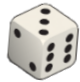
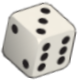
Die improvement and instruction cards
Added in all 40 instruction cards (6 strings per card). Also fixed the
die frame/animation up more.

diff --git a/Client/This.java b/Client/This.java
@@ -3,6 +3,329 @@ final class This
         /*
          * Constants
          */
+        public static final String[][] INSTRUCTION_CARDS =
+        {
+                {
+                        "Traffic jam on 405 by Airport. All cars on 405 lose one turn. If you are not on 405, move one.",
+                        "Caught using cell phone. Get ticket and wait one.",
+                        "Shopping spree on RODEO Drive. Go To B. Hills.",
+                        "Freeway wide open today. Move forward two.",
+                        "Your birthday. Take friend to Hollywood Bowl.",
+                        "New DIamond Lane opens. Zip forward three."
+                },
+                {
+                        "Go directly to Hollywood to see movie stars.",
+                        "Police stops you and gives you good driving award. Move forward three.",
+                        "JOKER. You MAY trade places with another car.",
+                        "You have won free Dodger tickets. Go to any of the three stadium entrances.",
+                        "Go forward to next offramp, then left two.",
+                        "Rush hour. Cars on 5 lose a turn. Others go one."
+                },
+                {
+                        "Free tickets to Six Flags. Go to Santa Clarita.",
+                        "Go directly to see Snoopy at Knotts Berry Farm.",
+                        "Accident ahead. Go right one at next offramp.",
+                        "Invited to lunch with Mayor. Go directly to L.A.",
+                        "Blowout. Go slowly to next offramp for repairs.",
+                        "Go to Airport at N. Long Beach. Helicopter takes you and car to Burbank. Then move two."
+                },
+                {
+                        "Go to L.A. Airport to drop off Grandma, then go two.",
+                        "Daughter enrolls. Take her to UCLA. Then go one.",
+                        "Take the day off. Go directly to any beach.",
+                        "Oops. Out of Gas. Nice man pushes you forward one to station.",
+                        "Go forward to next offramp, then right one.",
+                        "Take friend and use diamond lane. Zip ahead two."
+                },
+                {
+                        "School bus has flat tire. Stop to help, wait one then move forward one on next turn, plus the draw.",
+                        "Exchange with car closest to El Monte.",
+                        "Jump forward four. Even if you pass destination.",
+                        "Beautiful day in sunny So. Cal. Go forward two.",
+                        "President in town. Freeway closed. Wait one.",
+                        "Soaring gas prices--light traffic. Go forward two."
+                },
+                {
+                        "Dad riding in back seat. Move forward one.",
+                        "Today is your day. Move forward two.",
+                        "Turn signal malfunction. Wait one for repairs.",
+                        "Rainy today. Wipers are smearing, causing bad vision. Wait one while wipers are replaced.",
+                        "Car falls off hauling trailer. Move around one.",
+                        "Snow storm. Wait one to put on chains."
+                },
+                {
+                        "Tunnel flooded. Use surface streets to go up one.",
+                        "Trade places with the blue car. Then forward one.",
+                        "Oil spill ahead. Slip and slide forward one.",
+                        "Insurance expires. Lose two turns.",
+                        "No money for gas. Wait one.",
+                        "Runaway zoo animals on freeway. Pull over and lock doors. Wait one."
+                },
+                {
+                        "Mixup at ship dock for new imported vehicles. Auto truck takes car within three of destination.",
+                        "L.A. river overflows, flooding Freeway. Wait one.",
+                        "Low tire indicator. Move slowly forward one.",
+                        "Freeway closed for repairs ahead. Wait one.",
+                        "Diamond lane ends. Slowly move forward one.",
+                        "Teenage driver ahead. Take cover & wait one."
+                },
+                {
+                        "Last payment on boat. Go to San Pedro harbor.",
+                        "You are honored as bank's best credit card customer. Go forward two.",
+                        "Free tickets. Go to concert in Compton.",
+                        "Trade locations with any car.",
+                        "All the stars are aligned. Go forward two.",
+                        "Rain storm. Leaking sun roof. Wait one."
+                },
+                {
+                        "Blowout, radiator overheats, battery dies, and your clunker gives up. Get new car and 'go to' card.",
+                        "Good karma. Jump within four of destination.",
+                        "GPS malfunction. Says move up 23. Stay put.",
+                        "Free stay at Beach condo. Go to Long Beach.",
+                        "Tsunami floods beaches. Move forward three inland.",
+                        "Mud slide blocks freeway. Stay put."
+                },
+                {
+                        "Blowout on freeway. Good Samaratin changes your tire and moves you forward two.",
+                        "Boss gives you day off. Go to Knotts Berry Farm.",
+                        "Power failure. Move within five of destination.",
+                        "Move exactly six. Sorry if you pass your destination.",
+                        "You are feeling good today. Move forward two.",
+                        "Hershey truck spills load. Stop to help (and eat)."
+                },
+                {
+                        "Instant winner, (NOT) pick a new 'from-to' card and car, then start over and move forward three.",
+                        "If on 405, pick new 'to' card. Otherwise go up one.",
+                        "Go directly to Carson, then move forward two.",
+                        "Goodyear blimp takes you and your car to Pasadena.",
+                        "You win a new car. Pick one and move three.",
+                        "Free tickets to game show. Go to Hollywood."
+                },
+                {
+                        "Lady driver swerving badly. Call 911, then wait 1.",
+                        "18 wheeler in fast lane. Carefully pass forward 1.",
+                        "Go to Knotts Berry Farms. Enjoy.",
+                        "Trade locations with any car if to your advantage.",
+                        "Family in distress. Stop and help. Wait with them for help to come.",
+                        "Free tickets! Go directly to Disneyland."
+                },
+                {
+                        "Rush hour. Use car wings to fly forward three.",
+                        "Need bathroom badly. Go forward to next exit.",
+                        "Traffic jam at Disneyland. Move two on monorail.",
+                        "Error in GPS data. Choose another 'go to' card.",
+                        "Advance to nearest beach. Enjoy!",
+                        "Move forward four. If you pass your destination, too bad. Your must go four."
+                },
+                {
+                        "Night construction, move forward slowly one.",
+                        "Car blocking diamond lane. Pass and go up one.",
+                        "Car cuts you off. Recover and go one. Whew!",
+                        "3 A.M. You and date use fast land and go three.",
+                        "Sirens blaring. Pull over at next ramp. All is ok.",
+                        "Storm. Move cautiously forward one."
+                },
+                {
+                        "Caught in chase situation. Two tires punctured on spike strip. Tow truck takes you forward one.",
+                        "Carpooling today. Use diamond lane to go three.",
+                        "Limo with movie star goes by. Follow forward two.",
+                        "Two cars racing in fast lane. Move over and go up 1.",
+                        "CHP 'DUI' checkpoint. You check ok. Go up one.",
+                        "2 A.M. Crusin' fast and smoothly. Go forward three."
+                },
+                {
+                        "Freeway closed. Use car wings to fly ahead two.",
+                        "License check. You check out ok. Forward one.",
+                        "Rush pregnent wife to hospital. Go forward three.",
+                        "Car chase. Stop and wait one as CHP speeds by.",
+                        "CHP impounds car. Start over as new player.",
+                        "Paramedics blocking lanes, slide by slowly one."
+                },
+                {
+                        "Diamond lane ends. Massive jam. Wait one.",
+                        "CHP units slowing all traffic. Move slowly one.",
+                        "Man hanging from overpass. Wait one.",
+                        "Rush hour. Use surface streets, go forward two.",
+                        "Plywood in fast lane. Wait one for removal.",
+                        "Freeway closed for movie. Move one to offramp."
+                },
+                {
+                        "Train derails blocking freeway. Wait one.",
+                        "Need bathroom badly. Go forward to next exit.",
+                        "Accident at Disneyland. Use monorail and go up two.",
+                        "Confusing GPS data. Choose another 'to' card.",
+                        "Radiator leak. Go to next off, get water. Stay cool.",
+                        "Flashing lights behind. Pull over. Keep calm. Show ID and insurance. Cop says you're ok. Move 3."
+                },
+                {
+                        "Mud slide washes out two lanes. Move slowly 1.",
+                        "Go to L.A. Co. Fair in Pomona. Then move four.",
+                        "Go see Rose Bowl parade floats in Pasadena.",
+                        "Student driver ahead. Slowly move forward one.",
+                        "Rollover on right shoulder. Call 911. Stop and help. Then carefully go forward one.",
+                        "Olympics in town. Freeway clear. Go forward two."
+                },
+                {
+                        "Caught in diamond lane with no passenger. Get ticket, then go back one.",
+                        "Joker. You may trade places with any car.",
+                        "Load car onto train car mover. Go to Pasadena.",
+                        "Engine light comes on. Move forward to next off.",
+                        "Truck of chickens loses load. Wait here this turn.",
+                        "Go to Magic Mountain."
+                },
+                {
+                        "Truck blocking all lanes. Wait here this turn.",
+                        "House movers across three lanes. Go slowly one.",
+                        "All cars except you move forward one.",
+                        "Diamond lane clogged. Move over and go up one.",
+                        "Following too closely. Stop to get warning from police, then wait here till next turn.",
+                        "Green car swap with brown car, if both are playing."
+                },
+                {
+                        "Watermelon spill. Take next right, then two.",
+                        "Go forward to next exit for potty stop.",
+                        "Swap places with any car on 5. If none, go two.",
+                        "Light traffic today. Go forward two.",
+                        "'Door ajar' light is on. Stop, check doors, then go forward one.",
+                        "You move up one. Orange car goes back one."
+                },
+                {
+                        "USC plays Mich. in Rose Bowl. Go to Pasadena.",
+                        "You wait here. All others move one.",
+                        "Blue car moves forward two.",
+                        "CHP stopping all traffic due to poor visibility.",
+                        "Hub cap flies off. Go backward one to retrieve.",
+                        "Feeling bad karma today. Move to next offramp to visit therapist."
+                },
+                {
+                        "Subway opens. Surface traffic light. Forward one.",
+                        "Major power outage. All signs dark. Wait here.",
+                        "High speed rail construction slows freeway traffic. Move slowly forward one.",
+                        "Go to any beach. Enjoy, then move three.",
+                        "Holiday. Visit grandma in Torrance.",
+                        "Angles host World Series. Go to Anaheim."
+                },
+                {
+                        "Freeway clogged with trucks today. Wait one.",
+                        "Filming chase scene in Hollywood. Go ahead one.",
+                        "Police lay down tack strip. You get four flat tires. Wrecker takes your forward two for repairs.",
+                        "New freeway opens. Move forward three.",
+                        "You may trade places with any car.",
+                        "Motorcycle accident ahead. Wait this turn."
+                },
+                {
+                        "Light traffic today. Go forward two.",
+                        "Congested traffic near Dodger stadium. If on one of four stadium exits, wait one. If not, go three.",
+                        "Move forward or back within six of destination.",
+                        "Start over. Get new car and 'to-from' card. Move 4.",
+                        "Turn right next exit, then move 3.",
+                        "Move over. Light traffic. Take fast lane ahead 2."
+                },
+                {
+                        "Car chase ahead. Pull over and wait this turn.",
+                        "Thirsty. Move forward to next offramp for soda.",
+                        "Border Patrol checkpoint. Wait this turn.",
+                        "105 degrees today. Go to next exit to buy ice.",
+                        "Cinco de Mayo parade blocks freeway around L.A. If on 5, wait one. Otherwise move ahead 2.",
+                        "Fire by freeway clogs traffic. Wait here this turn."
+                },
+                {
+                        "If on 210, move closest way to 5. If not on 210, go forward two.",
+                        "Truck of rabbits dumps load. Move slowly one.",
+                        "Send red car to Disneyland, then your car up one.",
+                        "Bus on fire. Stop to help, then forward one.",
+                        "New diamond lane opens. Go forward three.",
+                        "Move half the distance to your destination."
+                },
+                {
+                        "Electric cars only today on freeway. Sorry, your car uses gasoline. Stay put.",
+                        "Funeral processional ahead/ Move slowly one.",
+                        "Go to 'Azusa Pacific' College in Azusa, then four.",
+                        "12 midnight. Very sleepy. Pull over for nap.",
+                        "Beautiful day in sunny Southern California. Move two.",
+                        "Dodgers win. All cars move forward one."
+                },
+                {
+                        "75 degrees in L.A. Go forward one.",
+                        "Need bathroom badly. Go forward to next exit.",
+                        "Free tickets to Queen Mary tour. Go to Long Beach.",
+                        "Earthquake! Rockin' and rollin' forward two.",
+                        "Earth day. Regular cars stay off freeway today.",
+                        "Mayor cuts ribbon for new diamond lane. Move forward three after celebration."
+                },
+                {
+                        "Student visiting day at Cal Poly Pomona. Take car full of high school seniors to visit campus.",
+                        "Accident ahead. Go two on alt. route or stay put.",
+                        "Pile up at Disneyland. Go up one if not on International 5.",
+                        "Car overheats. Wait this turn while radiator cools.",
+                        "Caught not wearing seat belt. Lose this turn.",
+                        "Flat tire. Call AAA, then move forward one after repair."
+                },
+                {
+                        "Man behind has road rage. Speed up, go to next exit, call 911, and then go right one.",
+                        "Idiot shooting from bridge. Zigzag forward one.",
+                        "Go to Dodger stadium. Enjoy game. Use any exit.",
+                        "Trade locations with closest car.",
+                        "Lady in distress. Stop and help, then forward two.",
+                        "Go directly to L.A. County Fair in Pomona."
+                },
+                {
+                        "Out of gas. Turn on electric motor and go two.",
+                        "Circus in town. Wait one for elephant parade.",
+                        "Reduce speed ahead. School zone. Watch for kids. Go forward slowly one.",
+                        "Truck drops lumber on freeway. Wait one.",
+                        "All clear today. Go forward two.",
+                        "Debris in fast lane. Change lanes and go one."
+                },
+                {
+                        "If on 91, go 3 toward goal. If not, go one.",
+                        "Go directly to Commerce, then move three.",
+                        "Inspect citrus grove in Orange, then go two on 22.",
+                        "Go directly to wedding in Palos Verdes.",
+                        "Go to Glendale, then one either way to 210.",
+                        "Go to Garden Grove, then left one toward Westminster, then north four."
+                },
+                {
+                        "If on 710, go forward 3. If not, go one.",
+                        "Boring day on freeway. Go forward one.",
+                        "Give speech at USC, from there go forward.",
+                        "Go directly to wedding in Palos Verdes.",
+                        "Go to Pasadena, then south one to 210.",
+                        "Border patrol stops traffic to chase illegal immigrants. Wait here one, but on next turn go up two, plus dice roll."
+                },
+                {
+                        "Rush pregnant wife to hospital. Use diamond lanes, break all speed limits, and move forward four.",
+                        "Night crew painting new lane stripes. Wait one.",
+                        "Headlights go out. Go to station at next offramp.",
+                        "Go to L.A. zoo. Take Panorama City offramp.",
+                        "Business takes you to City of Industry.",
+                        "Amber alert. Pull over and watch for red Honda."
+                },
+                {
+                        "Work swing shift. Freeway clear at 4 A.M. Go forward to next offramp for breakfast, then forward one.",
+                        "Go to Santa Monica pier, ride ferris wheel.",
+                        "Visit sister in Cyrpus, then forward two.",
+                        "Pick up pal at Van Nuys Airport. Then move one.",
+                        "Business trip to Brea Oil Field. Then move two.",
+                        "Wrong way driver. Pull over and wait this turn."
+                },
+                {
+                        "Lane closed ahead, move forward slowly one.",
+                        "Fire truck ahead blocking freeway. Wait one.",
+                        "Wrong way driver, swerve forward one. Whew!",
+                        "3 A.M. Go 75 mph. Move forward two.",
+                        "Sirens behind. Move up one as you pull over.",
+                        "New freeway opens. Move forward two."
+                },
+                {
+                        "Student visiting day at Cal Poly Pomona. Take students to visit campus.",
+                        "Accident ahead. Take alt. route or lose this turn.",
+                        "Traffic jam at Disneyland. Go up one if not on International 5.",
+                        "Car overheats. Wait this turn while radiator cools.",
+                        "Caught not wearing seat belt. Lose this turn.",
+                        "Flat tire. Call AAA, then wait this turn for their help."
+                }
+        };
         
         /*
          * Immutable fields

diff --git a/Client/Window.java b/Client/Window.java
@@ -19,6 +19,8 @@ import java.lang.NoSuchFieldException;
 import java.lang.IllegalAccessException;
 import java.lang.reflect.Field;
 import java.lang.reflect.Modifier;
+import java.text.NumberFormat;
+import java.util.Random;
 import javax.imageio.ImageIO;
 
 final class Window
@@ -38,6 +40,7 @@ final class Window
         private static final Canvas canvas = new Canvas();
         private static final BufferStrategy bufferStrategy = canvas.getBufferStrategy(); // will be reassigned once later
         private static final BufferedImage[] die = new BufferedImage[N_SIDED_DIE];
+        private static final Random random = new Random();
         
         /*
          * Mutable fields
@@ -204,7 +207,9 @@ final class Window
                 
                 //final Point m = canvas.getMousePosition();
                 
-                g.drawString("FPS: " + This.getFps() + " | CPS: " + This.getCps(), 2, 21); // top-left corner
+                g.drawString(
+                        "FPS: " + This.getFps() + " | CPS: " + NumberFormat.getIntegerInstance().format(This.getCps()),
+                        2, 21); // top-left corner
                 g.drawString("(Mouse) X: " + getMouseX() + " | (Mouse) Y: " + getMouseY(), 2, 45);
                 
                 g.drawImage(
@@ -212,11 +217,12 @@ final class Window
                         getMouseY() - die[dieCounter].getHeight() / 2, null);
                 
                 /*
-                 * Animate the die once every 4 frames
+                 * Animate the die once every 6 frames
                  */
-                if (++dieTimer >= 4)
+                if (++dieTimer >= 6)
                 {
-                        dieCounter = (byte)((dieCounter + 1) % N_SIDED_DIE);
+                        final byte nextFrame = (byte)random.nextInt(N_SIDED_DIE);
+                        dieCounter = dieCounter == nextFrame ? (byte)((nextFrame + 1) % N_SIDED_DIE) : nextFrame;
                         dieTimer = 0;
                 }
                 
